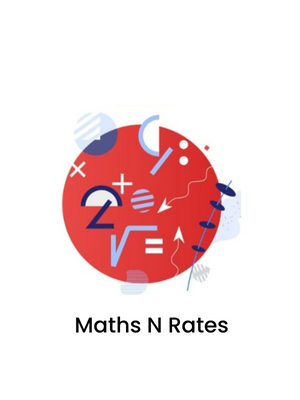
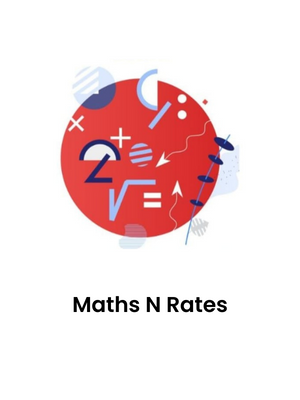
card images added

Changed region(s): [[0.18, 0.15, 0.81, 0.84]]

diff --git a/pages/clubs/clubs.html b/pages/clubs/clubs.html
@@ -41,7 +41,7 @@
                     <li><a class="nav-link scrollto " href="../../index.html">Home</a></li>
                     <li><a class="nav-link scrollto" href="#about">Calender</a></li>
                     <li><a class="nav-link scrollto" href="#services">Map</a></li>
-                    <li><a class="nav-link scrollto " href="#gallery">About</a></li>
+                    <li><a class="nav-link scrollto " href="#gallery">About </a></li>
                     <li><a class="nav-link scrollto" href="#team">Team </a></li>
                     <li><a class="nav-link scrollto" href="events.html">Events</a></li>
                     <li><a class="nav-link scrollto" href="#contact">Contact</a></li>
@@ -128,7 +128,7 @@
                 <input type="checkbox" class="flipcard">
                 <div class="card">
                     <div class="front card-face">
-                        <img src="/pages/clubs/img/4.png" alt="" class="card-photo">
+                        <img src="/pages/clubs/img/5.png" alt="" class="card-photo">
                     </div>
                     <div class="back card-face">
                         <p><b>Dr. Rakesh Choudhary </b> <br> <br>Rahul Choudhary  <b>  </b><br> 9057390340</p>
@@ -139,7 +139,7 @@
                 <input type="checkbox" class="flipcard">
                 <div class="card">
                     <div class="front card-face">
-                        <img src="/pages/clubs/img/4.png" alt="" class="card-photo">
+                        <img src="/pages/clubs/img/6.png" alt="" class="card-photo">
                     </div>
                     <div class="back card-face">
                         <p><b>Dr. Nidhi Sharma  </b> <br> <br>Yash Thakur <b>  </b><br> 8306477935</p>
@@ -150,7 +150,7 @@
                 <input type="checkbox" class="flipcard">
                 <div class="card">
                     <div class="front card-face">
-                        <img src="/pages/clubs/img/4.png" alt="" class="card-photo">
+                        <img src="/pages/clubs/img/7.png" alt="" class="card-photo">
                     </div>
                     <div class="back card-face">
                         <p><b>Dr. Pramila Kumawat </b> <br> <br>Ashwin  Gupta <b>  </b><br> 9785993559</p>
@@ -161,13 +161,102 @@
                 <input type="checkbox" class="flipcard">
                 <div class="card">
                     <div class="front card-face">
-                        <img src="/pages/clubs/img/4.png" alt="" class="card-photo">
+                        <img src="/pages/clubs/img/8.png" alt="" class="card-photo">
                     </div>
                     <div class="back card-face">
                         <p><b>Dr. Pramila Kumawat </b> <br> <br>Ashwin  Gupta <b>  </b><br> <b>9785993559</b></p>
                     </div>
                 </div>
             </label>
+            <label class="card-wrap">
+                <input type="checkbox" class="flipcard">
+                <div class="card">
+                    <div class="front card-face">
+                        <img src="/pages/clubs/img/9.png" alt="" class="card-photo">
+                    </div>
+                    <div class="back card-face">
+                        <p><b>Dr. Pramila Kumawat </b> <br> <br>Ashwin  Gupta <b>  </b><br> <b>9785993559</b></p>
+                    </div>
+                </div>
+            </label>
+            <label class="card-wrap">
+                <input type="checkbox" class="flipcard">
+                <div class="card">
+                    <div class="front card-face">
+                        <img src="/pages/clubs/img/10.png" alt="" class="card-photo">
+                    </div>
+                    <div class="back card-face">
+                        <p><b>Dr. Pramila Kumawat </b> <br> <br>Ashwin  Gupta <b>  </b><br> <b>9785993559</b></p>
+                    </div>
+                </div>
+            </label>
+            <label class="card-wrap">
+                <input type="checkbox" class="flipcard">
+                <div class="card">
+                    <div class="front card-face">
+                        <img src="/pages/clubs/img/11.png" alt="" class="card-photo">
+                    </div>
+                    <div class="back card-face">
+                        <p><b>Dr. Pramila Kumawat </b> <br> <br>Ashwin  Gupta <b>  </b><br> <b>9785993559</b></p>
+                    </div>
+                </div>
+            </label>
+            <label class="card-wrap">
+                <input type="checkbox" class="flipcard">
+                <div class="card">
+                    <div class="front card-face">
+                        <img src="/pages/clubs/img/12.png" alt="" class="card-photo">
+                    </div>
+                    <div class="back card-face">
+                        <p><b>Dr. Pramila Kumawat </b> <br> <br>Ashwin  Gupta <b>  </b><br> <b>9785993559</b></p>
+                    </div>
+                </div>
+            </label>
+            <label class="card-wrap">
+                <input type="checkbox" class="flipcard">
+                <div class="card">
+                    <div class="front card-face">
+                        <img src="/pages/clubs/img/13.png" alt="" class="card-photo">
+                    </div>
+                    <div class="back card-face">
+                        <p><b>Dr. Pramila Kumawat </b> <br> <br>Ashwin  Gupta <b>  </b><br> <b>9785993559</b></p>
+                    </div>
+                </div>
+            </label>
+            <label class="card-wrap">
+                <input type="checkbox" class="flipcard">
+                <div class="card">
+                    <div class="front card-face">
+                        <img src="/pages/clubs/img/14.png" alt="" class="card-photo">
+                    </div>
+                    <div class="back card-face">
+                        <p><b>Dr. Pramila Kumawat </b> <br> <br>Ashwin  Gupta <b>  </b><br> <b>9785993559</b></p>
+                    </div>
+                </div>
+            </label>
+            <label class="card-wrap">
+                <input type="checkbox" class="flipcard">
+                <div class="card">
+                    <div class="front card-face">
+                        <img src="/pages/clubs/img/15.png" alt="" class="card-photo">
+                    </div>
+                    <div class="back card-face">
+                        <p><b>Dr. Pramila Kumawat </b> <br> <br>Ashwin  Gupta <b>  </b><br> <b>9785993559</b></p>
+                    </div>
+                </div>
+            </label>
+            <label class="card-wrap">
+                <input type="checkbox" class="flipcard">
+                <div class="card">
+                    <div class="front card-face">
+                        <img src="/pages/clubs/img/16.png" alt="" class="card-photo">
+                    </div>
+                    <div class="back card-face">
+                        <p><b>Dr. Pramila Kumawat </b> <br> <br>Ashwin  Gupta <b>  </b><br> <b>9785993559</b></p>
+                    </div>
+                </div>
+            </label>
+            
         </div>
         
     </section>
